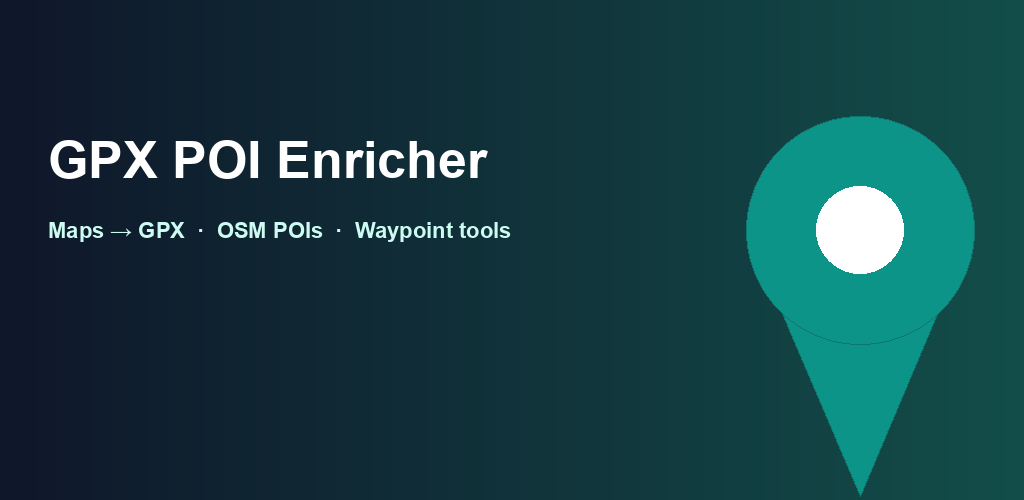
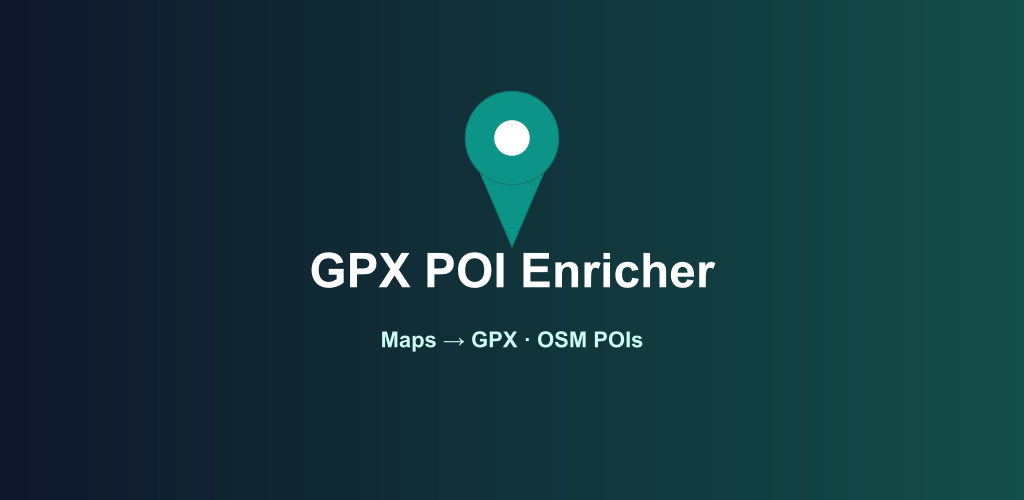
fix: featureGraphic.png

Changed region(s): [[0.0312, 0.18, 0.9688, 0.99], [0.0312, 0.42, 0.3125, 0.48], [0.375, 0.66, 0.625, 0.72]]

diff --git a/scripts/generate_play_assets.py b/scripts/generate_play_assets.py
@@ -83,16 +83,19 @@ def gen_feature_1024_500() -> Image.Image:
         for y in range(h):
             px[x, y] = (r, g, b)
     draw = ImageDraw.Draw(img)
-    title_font = try_font(52)
+    title_font = try_font(48)
     sub_font = try_font(22)
-    draw.text((48, 130), "GPX POI Enricher", font=title_font, fill=WHITE)
-    draw.text(
-        (48, 218),
-        "Maps → GPX  ·  OSM POIs  ·  Waypoint tools",
-        font=sub_font,
-        fill=(0xCC, 0xFB, 0xF1),
-    )
-    draw_pin(draw, 860, 230, scale=9.5, fill=TEAL, outline=(0x0F, 0x76, 0x6E))
+
+    # Google Play renders feature graphics in several card formats and may crop
+    # the left/right edges. Keep all meaningful content inside the central area.
+    def centered_text(y: int, text: str, font, fill) -> None:
+        left, top, right, bottom = draw.textbbox((0, 0), text, font=font)
+        x = (w - (right - left)) / 2 - left
+        draw.text((x, y - top), text, font=font, fill=fill)
+
+    draw_pin(draw, w / 2, 138, scale=3.9, fill=TEAL, outline=(0x0F, 0x76, 0x6E))
+    centered_text(254, "GPX POI Enricher", title_font, WHITE)
+    centered_text(332, "Maps → GPX  ·  OSM POIs", sub_font, (0xCC, 0xFB, 0xF1))
     return img
 
 
